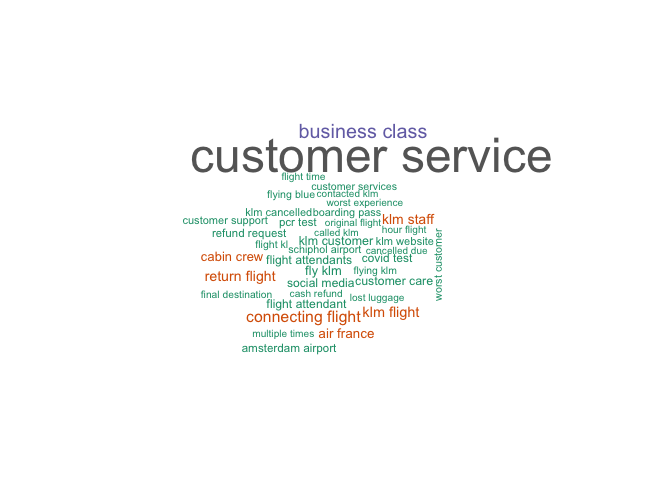
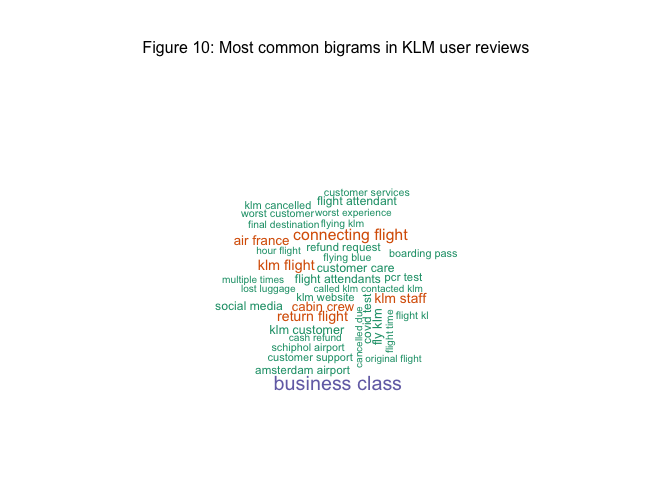
add missing figure numbers to report (README)

Changed region(s): [[0.2812, 0.25, 0.8438, 0.8125], [0.2188, 0.0625, 0.7812, 0.125]]

diff --git a/README.md b/README.md
@@ -328,10 +328,14 @@ word_freq_table <- klm_corrected %>%
 
 ``` r
 # Plotting a wordcloud
+layout(matrix(c(1, 2), nrow=2), heights=c(1, 4))
+par(mar=rep(0, 4))
+plot.new()
+text(x=0.5, y=0.5, "Figure 5: Wordcloud for KLM's user reviews")
 word_freq_table %>% 
   filter(n>100) %>%
   with(wordcloud(word, n,
-                 scale = c(4,0.2),
+                 scale = c(5,0.2),
                  colors = brewer.pal(8, "Dark2")))
 ```
 
@@ -343,6 +347,10 @@ express negative and positive sentiments
 
 ``` r
 # Positive/Negative cloud
+layout(matrix(c(1, 2), nrow=2), heights=c(1, 4))
+par(mar=rep(0, 4))
+plot.new()
+text(x=0.5, y=0.5, "Figure 6: Wordcloud for KLM's user reviews by sentiment type")
 klm_tidy_corrected %>%
   inner_join(custom_bing) %>%
   count(word, sentiment, sort = TRUE) %>%
@@ -384,7 +392,7 @@ klm_tidy_corrected %>%
 
 <img src="README_files/figure-gfm/unnamed-chunk-9-1.png" title="Most important words contributing to positive and negative sentiment" alt="Most important words contributing to positive and negative sentiment" width="70%" />
 
-Figure 5 above lists the most important words contributing to positive
+Figure 7 above lists the most important words contributing to positive
 and negative sentiment. As I have noted earlier, there seems to be a
 structural break in the net sentiment of users’ reviews around July
 2021. The net sentiment becomes considerably more negative after July
@@ -443,8 +451,8 @@ klm_tidy %>%
 
 <img src="README_files/figure-gfm/unnamed-chunk-11-1.png" title="Most important words contributing to sentiments (date &gt; 2021-07-01)" alt="Most important words contributing to sentiments (date &gt; 2021-07-01)" width="70%" />
 
-Figure 6 plots list the top negative and positive words for user reviews
-of trips that occurred before or during July 2021, while Figure 7 plots
+Figure 8 plots list the top negative and positive words for user reviews
+of trips that occurred before or during July 2021, while Figure 9 plots
 the same information for trips that happened after July 2021.
 Contrasting these two figures it is possible to conclude that *the
 increase in the net negative sentiment of KLM user after July 2021 is
@@ -455,11 +463,16 @@ in number of refunds*.
 
 In order to assess the robustness of these conclusions and to provide
 more context to the interpretation of individual words, I created a
-wordcloud with the most common bigrams and a network graph with the most
-importnat word relationships in KLM user reviews.
+wordcloud with the most common bigrams (Figure 10) and a network graph
+with the most importnat word relationships in KLM user reviews (Figure
+11).
 
 ``` r
 # Most Common Bigrams
+layout(matrix(c(1, 2), nrow=2), heights=c(1, 4))
+par(mar=rep(0, 4))
+plot.new()
+text(x=0.5, y=0.5, "Figure 10: Most common bigrams in KLM user reviews")
 klm_corrected %>%
   unnest_tokens(bigram, review_text, token = "ngrams", n = 2) %>%
   count(bigram, sort = TRUE) %>%
@@ -495,7 +508,7 @@ bigram_graph_corrected %>% ggraph(layout = "fr") +
   geom_node_point(color = "lightblue", size = 5) +
   geom_node_text(aes(label = name), vjust = 1, hjust = 1) +
   theme_void() +
-  ggtitle("Figure 10: Most importnat word relationships in KLM user reviews")
+  ggtitle("Figure 11: Most importnat word relationships in KLM user reviews")
 ```
 
 ![Most importnat word relationships in KLM user
